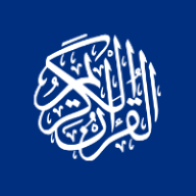
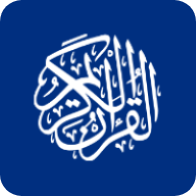
make images rounded

diff --git a/src/App.js b/src/App.js
@@ -24,7 +24,7 @@ function App() {
     <div className="App" >
       <Analytics />
       <SpeedInsights />
-      <Router basename="/">
+      <Router basename="/Rukn-Elquran">
         <Analytics />
         <SpeedInsights />
         <AppContext>
